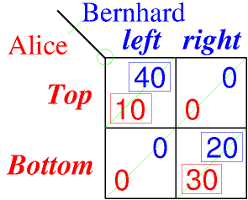
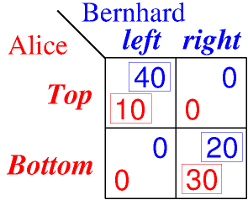
a bit on fonts, one pic updated

diff --git a/fileformats/strategic.md b/fileformats/strategic.md
@@ -192,8 +192,25 @@ line width, and the separating parallel inner lines
 independently (which may possibly have a different line
 width, default same as outer rectangle).  
 
+### Fonts
+
+There should be a standard font *size* that makes single-digit
+payoffs look nice and balanced (see above pictures).
+A simple remedy to adjust overcrowded cells is to only
+change the *cell size* but leave the font size alone.
+
+As *typefaces* I have chosen above, and think it looks good:
+
+* Helvetica (sans serif) for payoffs
+* Roman (serif) for player names
+* Roman bold italic (alternative: italic) for strategy
+  names.
+
+Making these at some time choosable is a future feature.
+
 ## More than two players
 
+(not complete)
 
 The strategic form is a table that lists STRATEGIES for each
 player (rows for player 1, columns for player 2) and the
